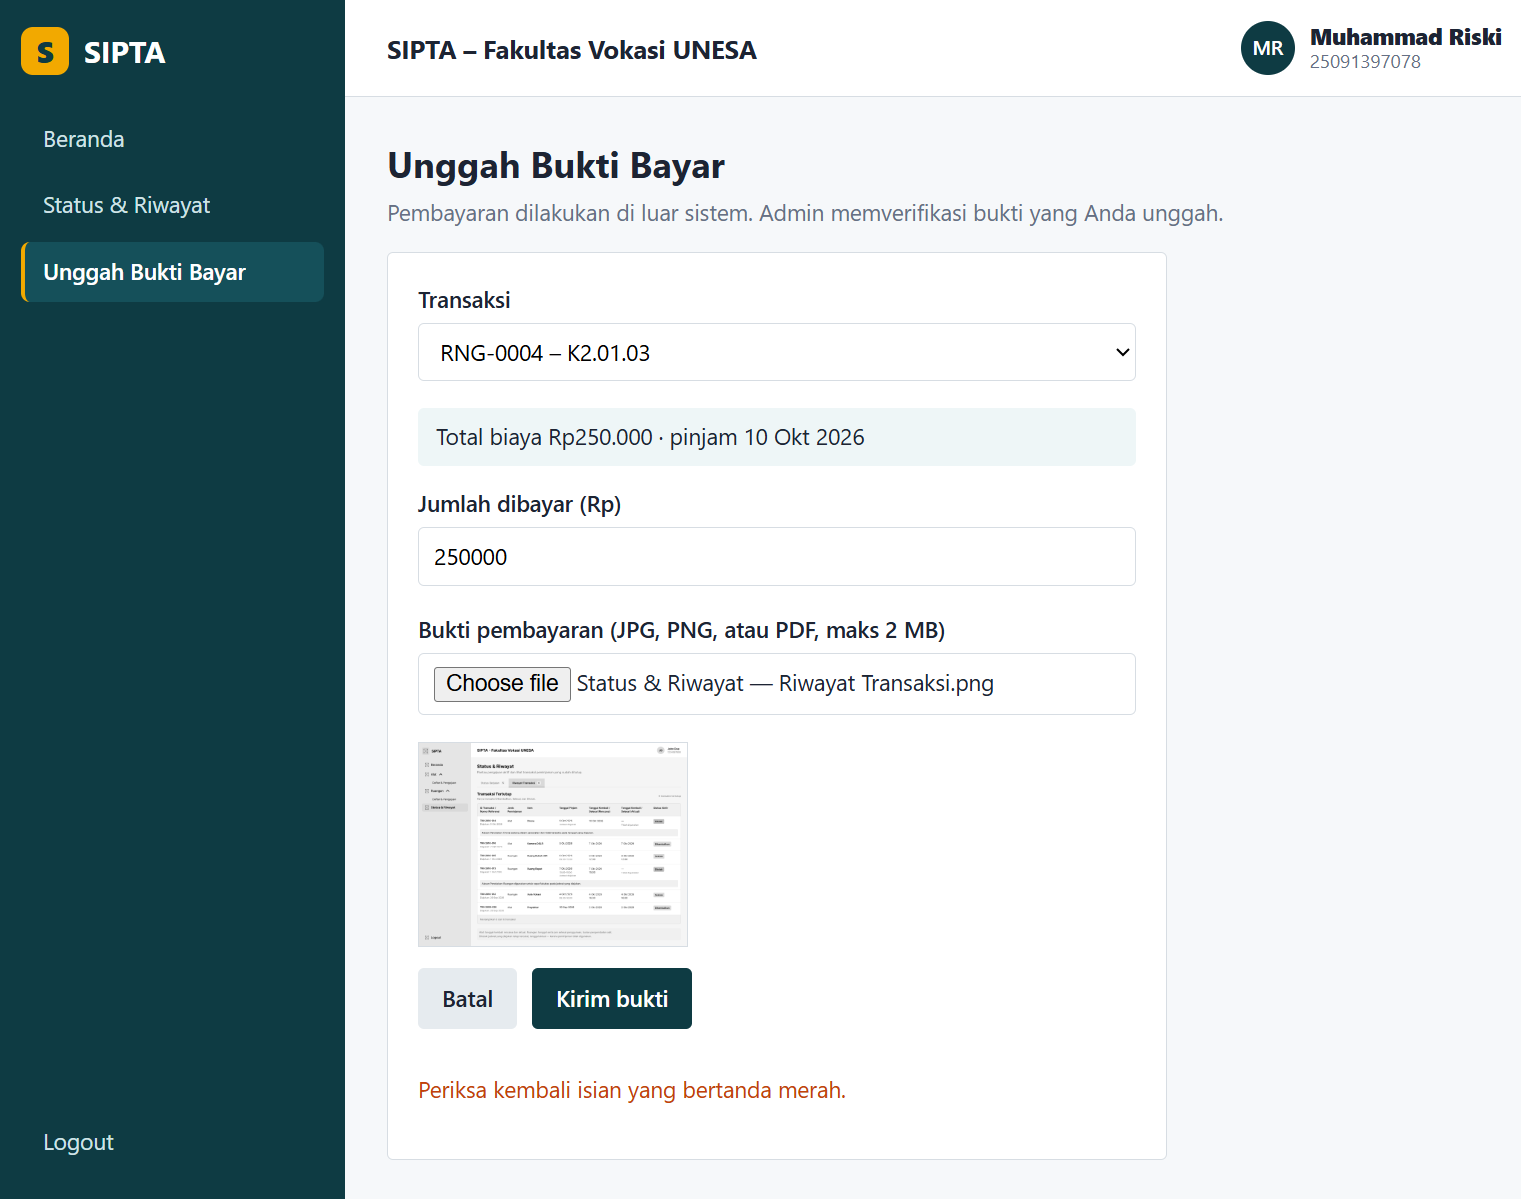
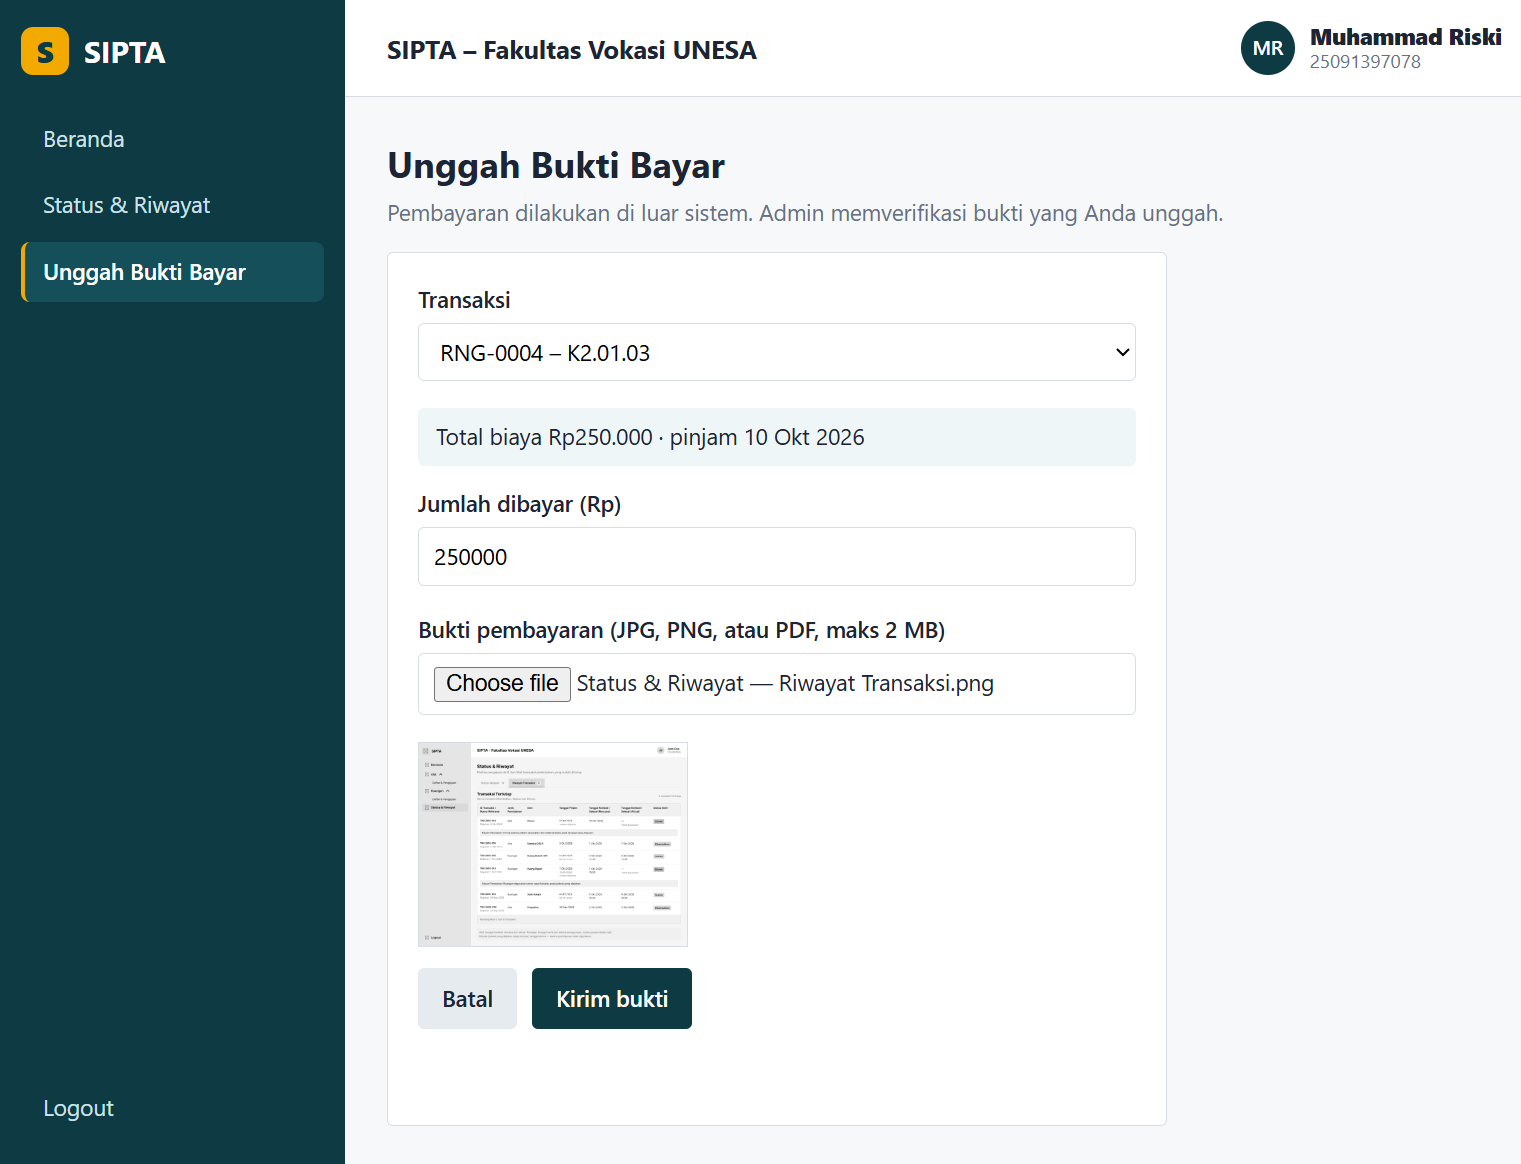
fix: readme dan revisi screenshot

diff --git a/README.md b/README.md
@@ -33,14 +33,14 @@ Validasi form: transaksi wajib dipilih, nominal harus angka dan sama dengan tota
 **Riwayat Transaksi**
 ![Riwayat Transaksi](screenshot/03-riwayat-transaksi.png)
 
-**Form Unggah Bukti Bayar**
-![Form](screenshot/04-form-bukti-bayar.png)
+**Form Unggah Bukti Bayar (kosong)**
+![Form kosong](screenshot/04-form-kosong.png)
+
+**Form terisi**
+![Form terisi](screenshot/05-form-bukti-bayar.png)
 
 **Validasi form (contoh error)**
-![Validasi](screenshot/05-form-validasi-error.png)
-
-**Form berhasil dikirim**
-![Sukses](screenshot/06-form-sukses.png)
+![Validasi](screenshot/06-form-validasi-error.png)
 
 ## Tampilan mobile
 
